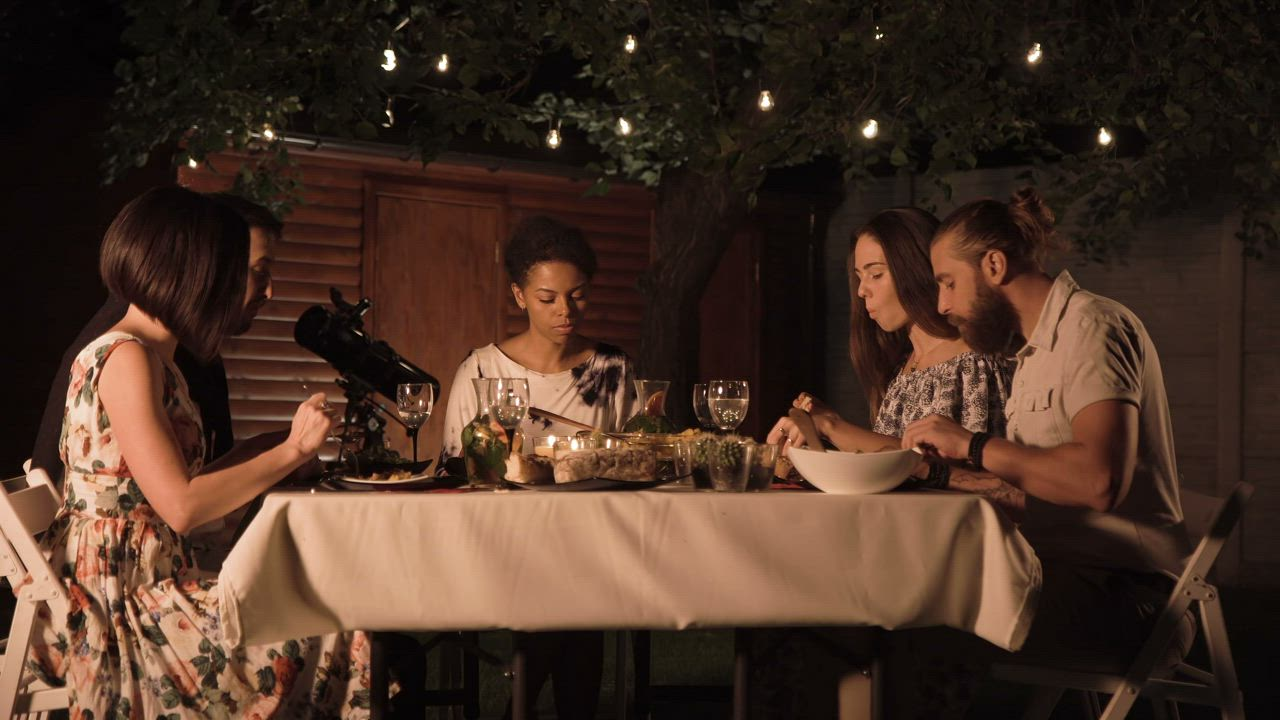
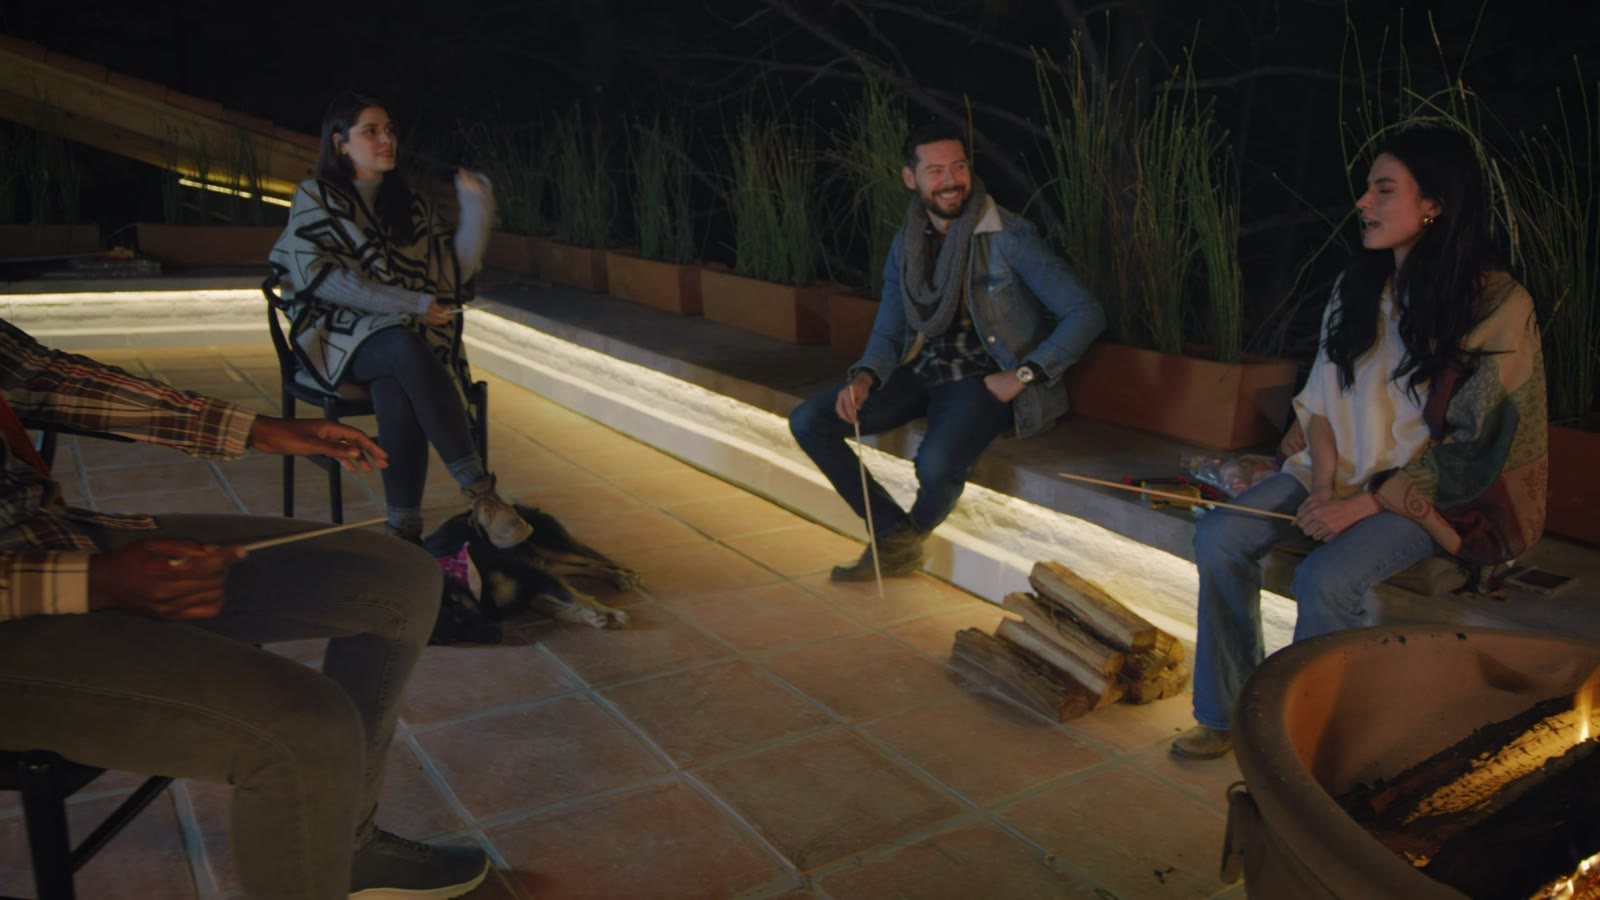
feat: swap to crisp 1080p firepit scene + remove drifting motes
- Replace hero video with Mixkit 42754 (firepit gathering) in crisp 1080p —
  the earlier clip; the previous dinner scene only existed at 720p, hence the
  softness. Self-hosted (hero 3.3MB, fallback 742KB) + new poster.
- Remove the drifting light-motes ("glitter") entirely — just video + text.
- Raise zoom focus (transform-origin 34%) + ease start scale to 1.22 so the
  tighter opening lands on the people, not the empty patio center.

diff --git a/app/scroll-zoom.tsx b/app/scroll-zoom.tsx
@@ -16,37 +16,15 @@ function ScrollStat({ scrollY, to }: { scrollY: MotionValue<number>; to: number 
   return <>{val}</>;
 }
 
-// Self-hosted (Mixkit, free license): diverse group around a warm string-lit
-// garden dinner at night. Real people connecting — the community IS the scene.
-// Local files in /public so the hero never depends on a third-party CDN hotlink.
+// Self-hosted (Mixkit 42754, free license): diverse group in genuine
+// conversation around a warm firepit at night. Crisp 1080p source. Real people
+// connecting — the community IS the scene. Local in /public, no CDN hotlink.
 const VIDEO = "/hero.mp4";
 const POSTER = "/hero-poster.jpg";
 const VIDEO_FALLBACK = "/hero-fallback.mp4";
 
 // Single CTA destination used everywhere
 export const BOOK_DEMO = "https://calendar.app.google/YqLHSCCMvtUQAkma9";
-
-// Hand-authored (deterministic → SSR-safe) drifting light-motes. Negative
-// delays mean several are already mid-flight on first paint — atmosphere is
-// present "immediately in the background," then keeps breathing as you scroll.
-const EMBERS = [
-  { left: 7, size: 4, dur: 21, delay: -3, sway: 16, max: 0.5 },
-  { left: 15, size: 2.5, dur: 26, delay: -11, sway: -12, max: 0.38 },
-  { left: 23, size: 5, dur: 19, delay: -7, sway: 10, max: 0.55 },
-  { left: 31, size: 3, dur: 24, delay: -16, sway: -16, max: 0.42 },
-  { left: 39, size: 3.5, dur: 22, delay: -1, sway: 14, max: 0.5 },
-  { left: 46, size: 6, dur: 18, delay: -9, sway: -8, max: 0.6 },
-  { left: 53, size: 2.5, dur: 27, delay: -19, sway: 18, max: 0.36 },
-  { left: 60, size: 4.5, dur: 20, delay: -5, sway: -14, max: 0.52 },
-  { left: 67, size: 3, dur: 25, delay: -13, sway: 12, max: 0.44 },
-  { left: 74, size: 5, dur: 19, delay: -2, sway: -10, max: 0.55 },
-  { left: 81, size: 2.5, dur: 28, delay: -22, sway: 16, max: 0.35 },
-  { left: 88, size: 4, dur: 23, delay: -8, sway: -16, max: 0.48 },
-  { left: 94, size: 3, dur: 21, delay: -15, sway: 10, max: 0.42 },
-  { left: 35, size: 2, dur: 30, delay: -6, sway: 20, max: 0.3 },
-  { left: 58, size: 2, dur: 29, delay: -17, sway: -18, max: 0.32 },
-  { left: 11, size: 3.5, dur: 22, delay: -12, sway: 12, max: 0.46 },
-];
 
 const NAV_LINKS: { label: string; href: string }[] = [
   { label: "Platform", href: "#features" },
@@ -100,8 +78,8 @@ export function FullHeroSection() {
   // depending on viewport). All scroll beats must COMPLETE before ~560px so the
   // zoom-out fully resolves and the reveal dwells before the section scrolls away.
   // Cinematic zoom-OUT: start tight on the people, pull back to the full scene.
-  const videoScale = useTransform(scrollY, [0, 540], r ? [1.28, 1.0] : [1.06, 1.06]);
-  const videoY = useTransform(scrollY, [0, 540], r ? ["3%", "-2%"] : ["0%", "0%"]);
+  const videoScale = useTransform(scrollY, [0, 540], r ? [1.22, 1.0] : [1.06, 1.06]);
+  const videoY = useTransform(scrollY, [0, 540], r ? ["1.5%", "-1%"] : ["0%", "0%"]);
 
   // Hero copy floats up and fades as the camera pulls back
   const heroY = useTransform(scrollY, [0, 360], [0, -80]);
@@ -148,6 +126,7 @@ export function FullHeroSection() {
           style={{
             scale: videoScale,
             y: videoY,
+            transformOrigin: "50% 34%",
             position: "absolute",
             inset: 0,
             width: "100%",
@@ -169,26 +148,6 @@ export function FullHeroSection() {
         <div style={{ position: "absolute", inset: 0, zIndex: 1, background: "radial-gradient(ellipse 60% 50% at 50% 60%, rgba(216,150,40,0.18) 0%, transparent 70%)" }} />
         {/* Amber color-wash — unifies + lifts the warmth across the whole scene */}
         <div style={{ position: "absolute", inset: 0, zIndex: 2, background: "rgba(196,118,34,0.14)", mixBlendMode: "soft-light", pointerEvents: "none" }} />
-        {/* Drifting warm light-motes — bokeh/embers from the string-lit scene */}
-        <motion.div className="embers" aria-hidden="true" style={{ x: pX, y: pY, zIndex: 2 }}>
-          {EMBERS.map((e, i) => (
-            <span
-              key={i}
-              className="ember"
-              style={{
-                left: `${e.left}%`,
-                width: e.size,
-                height: e.size,
-                // CSS custom props drive the per-mote drift/timing
-                ["--ember-dur" as string]: `${e.dur}s`,
-                ["--ember-delay" as string]: `${e.delay}s`,
-                ["--ember-sway" as string]: `${e.sway}px`,
-                ["--ember-max" as string]: e.max,
-              }}
-            />
-          ))}
-        </motion.div>
-
         {/* Cinematic film grain */}
         <div className="film-grain" aria-hidden="true" style={{ zIndex: 2 }} />
 

diff --git a/app/globals.css b/app/globals.css
@@ -104,26 +104,6 @@ body {
   100% { transform: translate(0, 0); }
 }
 
-/* Warm light-motes — soft bokeh/embers drifting up from the string-lit scene.
-   Atmosphere + life behind the hero; sparse and slow so it reads as glow, not snow. */
-.embers { position: absolute; inset: 0; overflow: hidden; pointer-events: none; }
-.ember {
-  position: absolute;
-  bottom: -3vh;
-  border-radius: 50%;
-  background: radial-gradient(circle, rgba(255,228,168,0.95) 0%, rgba(241,181,99,0.55) 42%, rgba(241,181,99,0) 72%);
-  filter: blur(0.4px);
-  will-change: transform, opacity;
-  animation: ember-rise var(--ember-dur, 20s) linear infinite;
-  animation-delay: var(--ember-delay, 0s);
-}
-@keyframes ember-rise {
-  0%   { transform: translateY(6vh) translateX(0) scale(0.85); opacity: 0; }
-  12%  { opacity: var(--ember-max, 0.55); }
-  82%  { opacity: var(--ember-max, 0.55); }
-  100% { transform: translateY(-94vh) translateX(var(--ember-sway, 12px)) scale(1.12); opacity: 0; }
-}
-
 /* FAQ accordion — hide default marker, swap +/− on open */
 .faq-item summary::-webkit-details-marker { display: none; }
 .faq-item[open] .faq-mark { transform: rotate(45deg); }
@@ -176,7 +156,6 @@ body {
 @media (prefers-reduced-motion: reduce) {
   .fade-rise, .fade-rise-1, .fade-rise-2, .fade-rise-3 { animation: none !important; }
   .film-grain { animation: none !important; }
-  .embers { display: none !important; }
   *, *::before, *::after {
     animation-duration: 0.001ms !important;
     animation-iteration-count: 1 !important;

diff --git a/app/layout.tsx b/app/layout.tsx
@@ -27,7 +27,7 @@ export const metadata: Metadata = {
     description: DESCRIPTION,
     siteName: "BubbleLab Community",
     type: "website",
-    images: [{ url: OG_IMAGE, width: 1280, height: 720, alt: "A community gathered around a warm garden dinner" }],
+    images: [{ url: OG_IMAGE, width: 1600, height: 900, alt: "A community gathered around a warm fire at night" }],
   },
   twitter: {
     card: "summary_large_image",